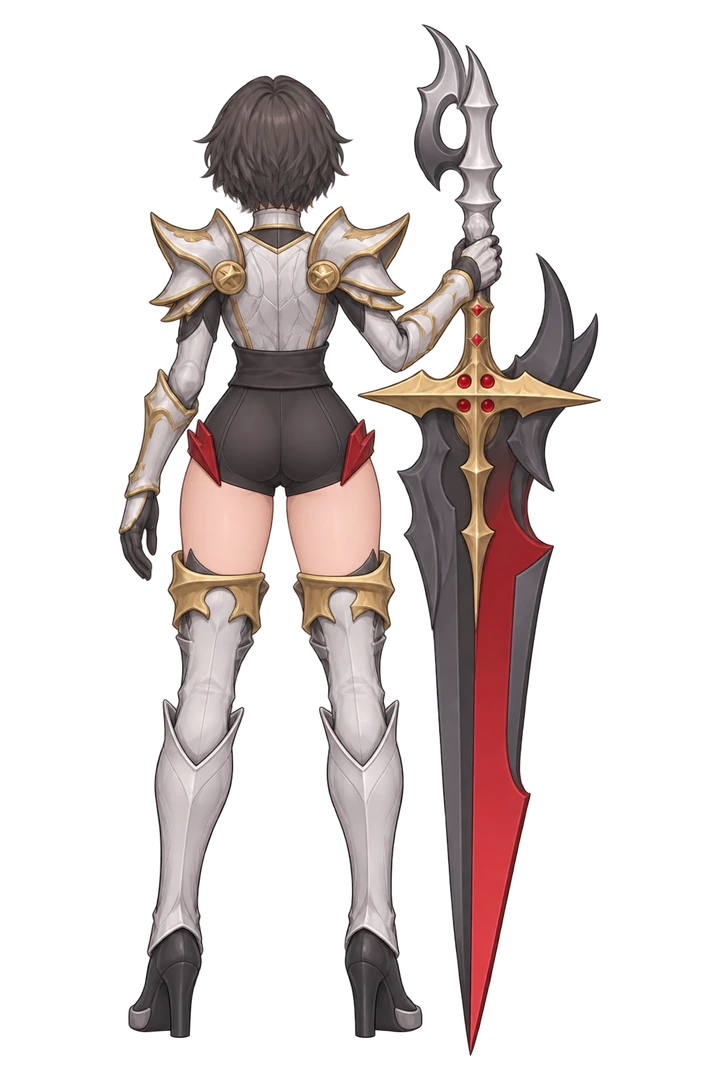
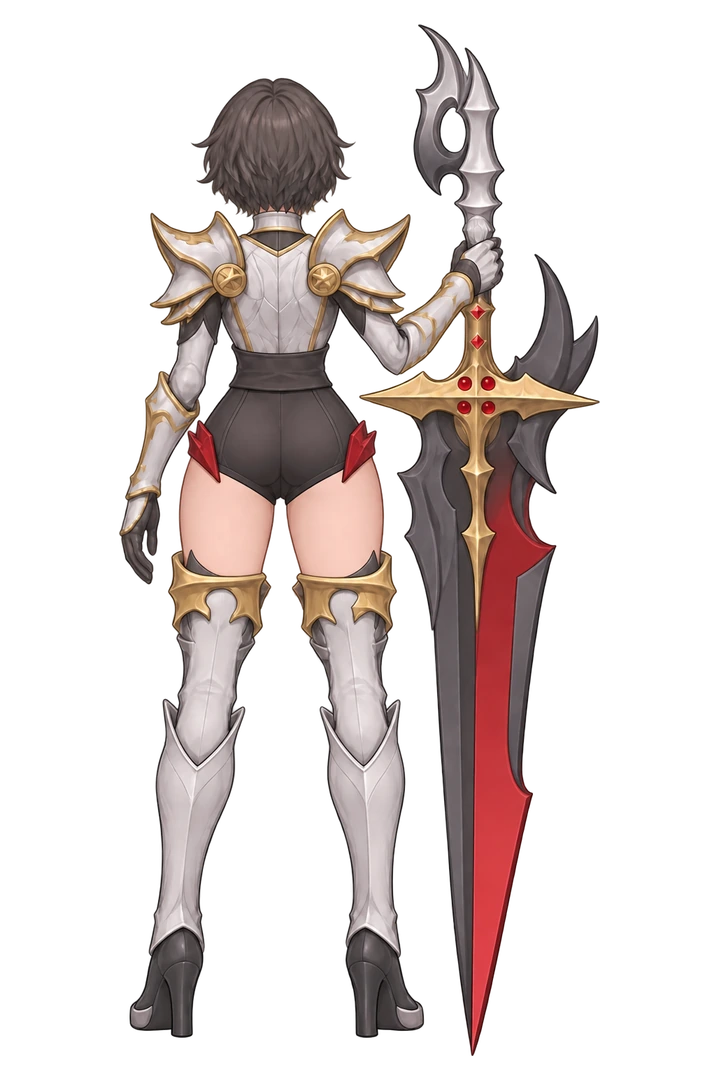
Refine Palanus's rear shorts cut

diff --git a/fantasy-rpg/WORLD_BIBLE.md b/fantasy-rpg/WORLD_BIBLE.md
@@ -283,7 +283,7 @@
 
 - 인간족. 키 170cm, 몸무게 54kg. 대검을 사용한다.
 - 차분하고 위급할 때 판단이 빠르다. 상황이 정리되면 짧은 농담으로 긴장을 풀기도 한다. 남의 실수에는 관대하지만 자기 실수는 오래 곱씹는다.
-- 짧은 검은 머리, 붉은 앞판과 검은 허리 부분을 가진 은백색·금장 갑옷, 붉은색과 검은색이 섞인 대검을 외형의 기준으로 한다. 눈가 장신구와 망토를 제거한다. 짧은 흰 허리천은 앞면에 두고, 뒤에는 늘어진 천 없이 짧은 하의의 실루엣이 보이게 한다.
+- 짧은 검은 머리, 붉은 앞판과 검은 허리 부분을 가진 은백색·금장 갑옷, 붉은색과 검은색이 섞인 대검을 외형의 기준으로 한다. 눈가 장신구와 망토를 제거한다. 짧은 흰 허리천은 앞면에 두고, 뒤에는 늘어진 천 없이 짧은 하의의 실루엣이 보이게 한다. 하의 밑단은 골반 바깥쪽이 더 올라가는 짧은 사선 재단이다.
 - 나이·출신지·직업·전용 기술·첫 만남은 미정이다. 레퍼런스의 푸른 효과를 별도 능력으로 부여하지 않는다.
 
 ## 6. 정수 — 확정

diff --git a/fantasy-rpg/desktop/world/WORLD_BIBLE.md b/fantasy-rpg/desktop/world/WORLD_BIBLE.md
@@ -283,7 +283,7 @@
 
 - 인간족. 키 170cm, 몸무게 54kg. 대검을 사용한다.
 - 차분하고 위급할 때 판단이 빠르다. 상황이 정리되면 짧은 농담으로 긴장을 풀기도 한다. 남의 실수에는 관대하지만 자기 실수는 오래 곱씹는다.
-- 짧은 검은 머리, 붉은 앞판과 검은 허리 부분을 가진 은백색·금장 갑옷, 붉은색과 검은색이 섞인 대검을 외형의 기준으로 한다. 눈가 장신구와 망토를 제거한다. 짧은 흰 허리천은 앞면에 두고, 뒤에는 늘어진 천 없이 짧은 하의의 실루엣이 보이게 한다.
+- 짧은 검은 머리, 붉은 앞판과 검은 허리 부분을 가진 은백색·금장 갑옷, 붉은색과 검은색이 섞인 대검을 외형의 기준으로 한다. 눈가 장신구와 망토를 제거한다. 짧은 흰 허리천은 앞면에 두고, 뒤에는 늘어진 천 없이 짧은 하의의 실루엣이 보이게 한다. 하의 밑단은 골반 바깥쪽이 더 올라가는 짧은 사선 재단이다.
 - 나이·출신지·직업·전용 기술·첫 만남은 미정이다. 레퍼런스의 푸른 효과를 별도 능력으로 부여하지 않는다.
 
 ## 6. 정수 — 확정

diff --git a/fantasy-rpg/desktop/README.md b/fantasy-rpg/desktop/README.md
@@ -425,3 +425,7 @@ ChatGPT에는 현장 인물별 전언·출처·불확실성과 반응 방향을 
 ### v0.42.27 · 팔라누스
 
 대검을 쓰는 인간족 팔라누스의 전신·후면·대화·대검 공격·컷신·일반 SD 및 전투 SD를 추가했다. 눈가 장신구와 망토를 제거했다. 턴제와 실시간 전투는 공통 근접 판정을 사용한다. Windows 설치 패치 기준은 v0.42.26이다.
+
+### v0.42.28 · 팔라누스 후면 재단 수정
+
+후면 전신의 짧은 하의 밑단을 골반 바깥쪽이 올라가는 사선으로 조정했다. Windows 설치 패치 기준은 v0.42.27이다.
